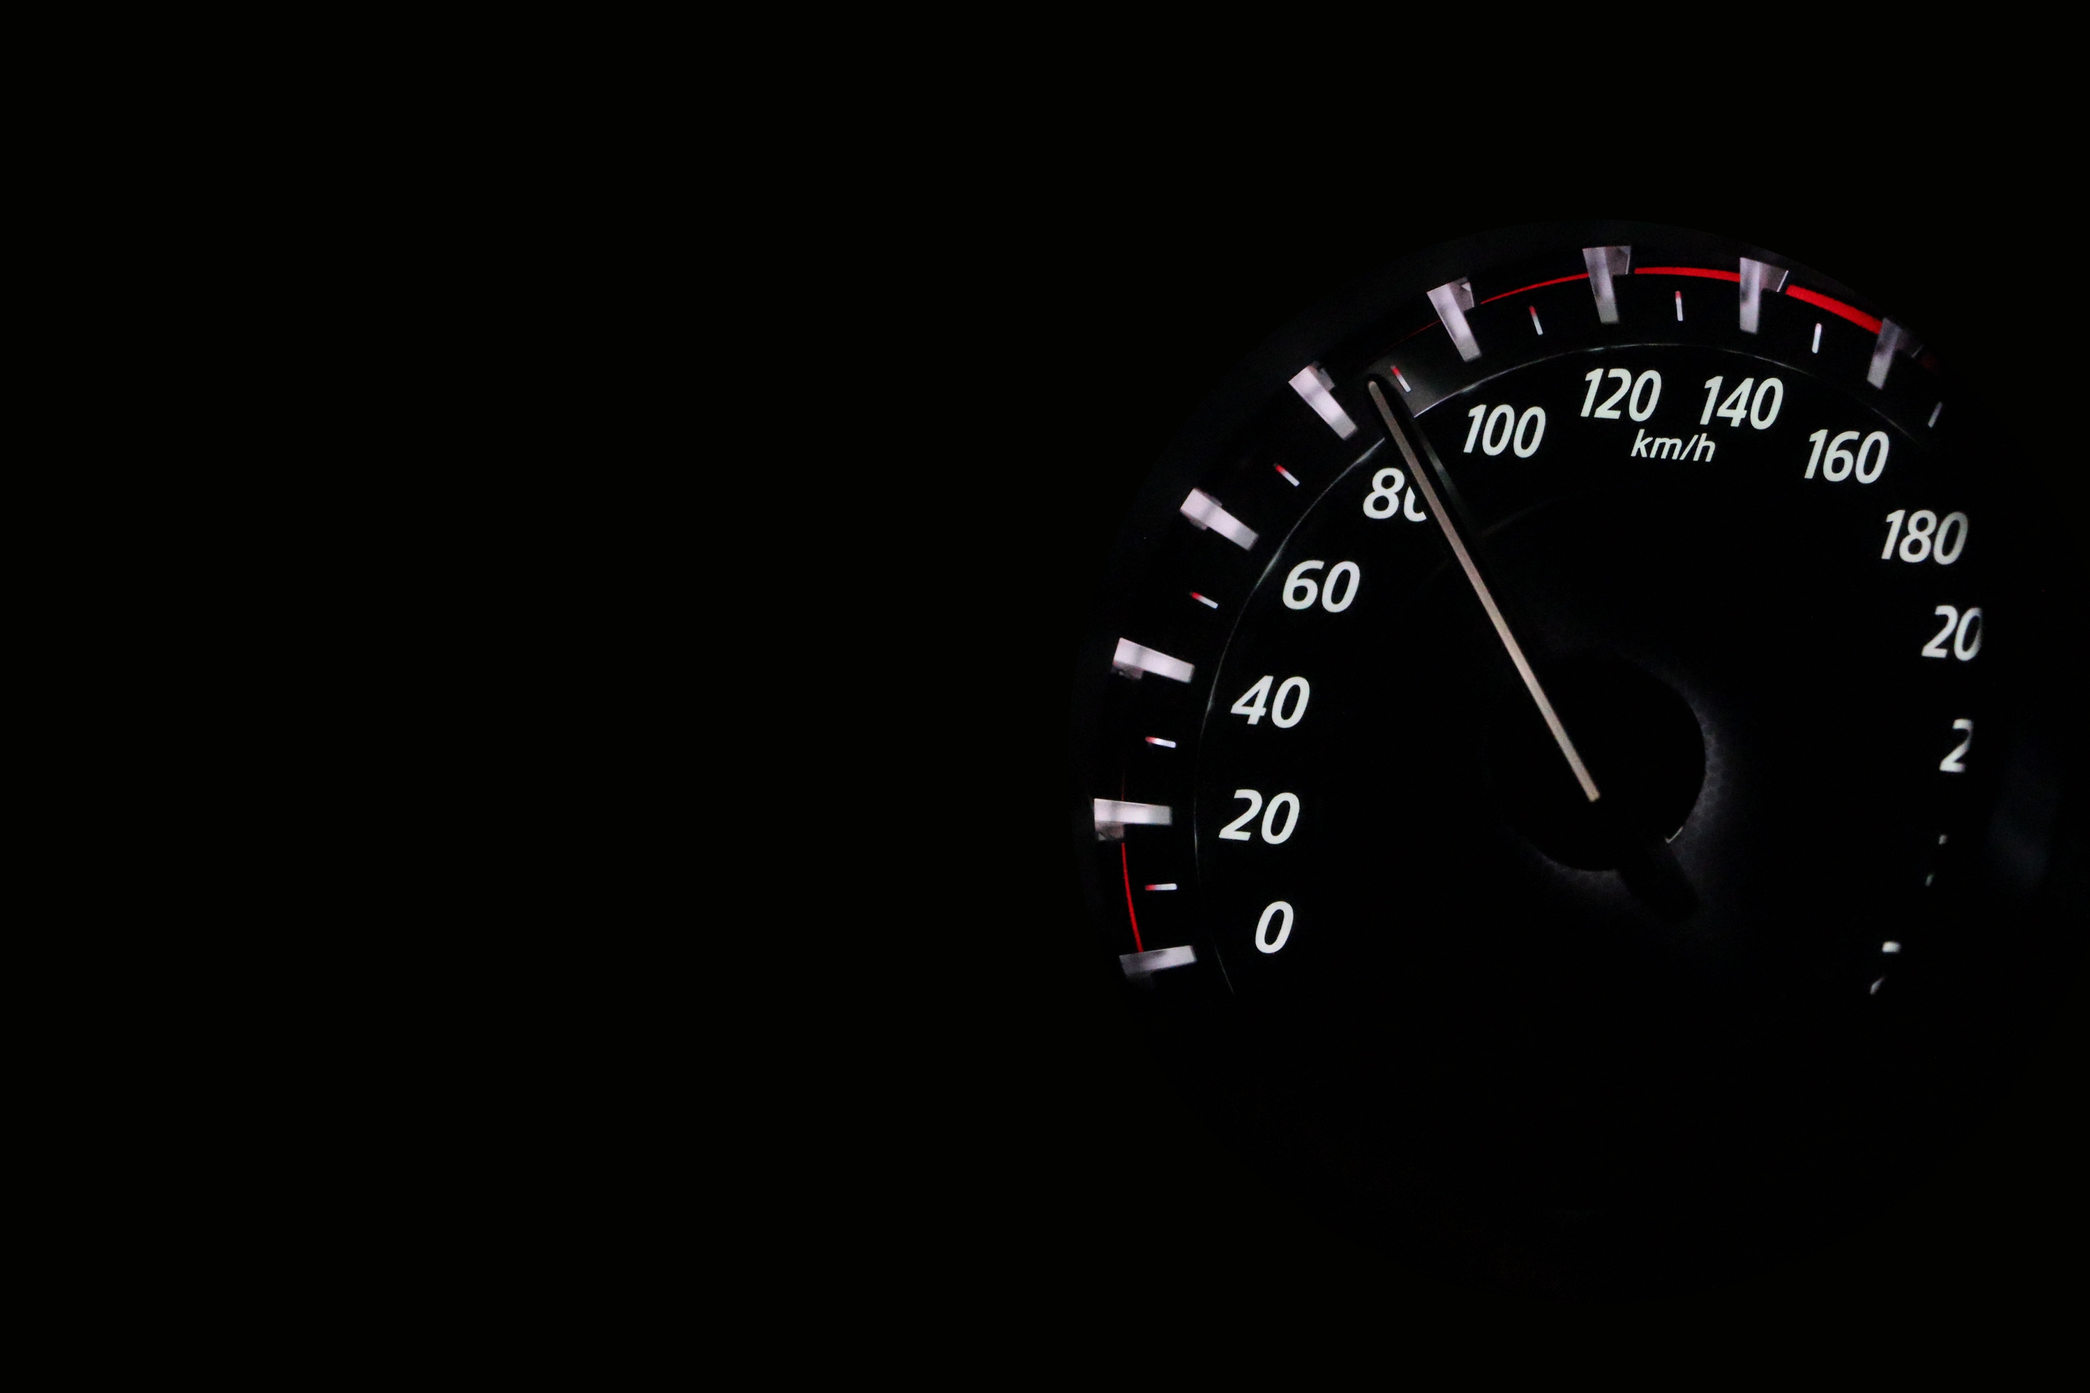
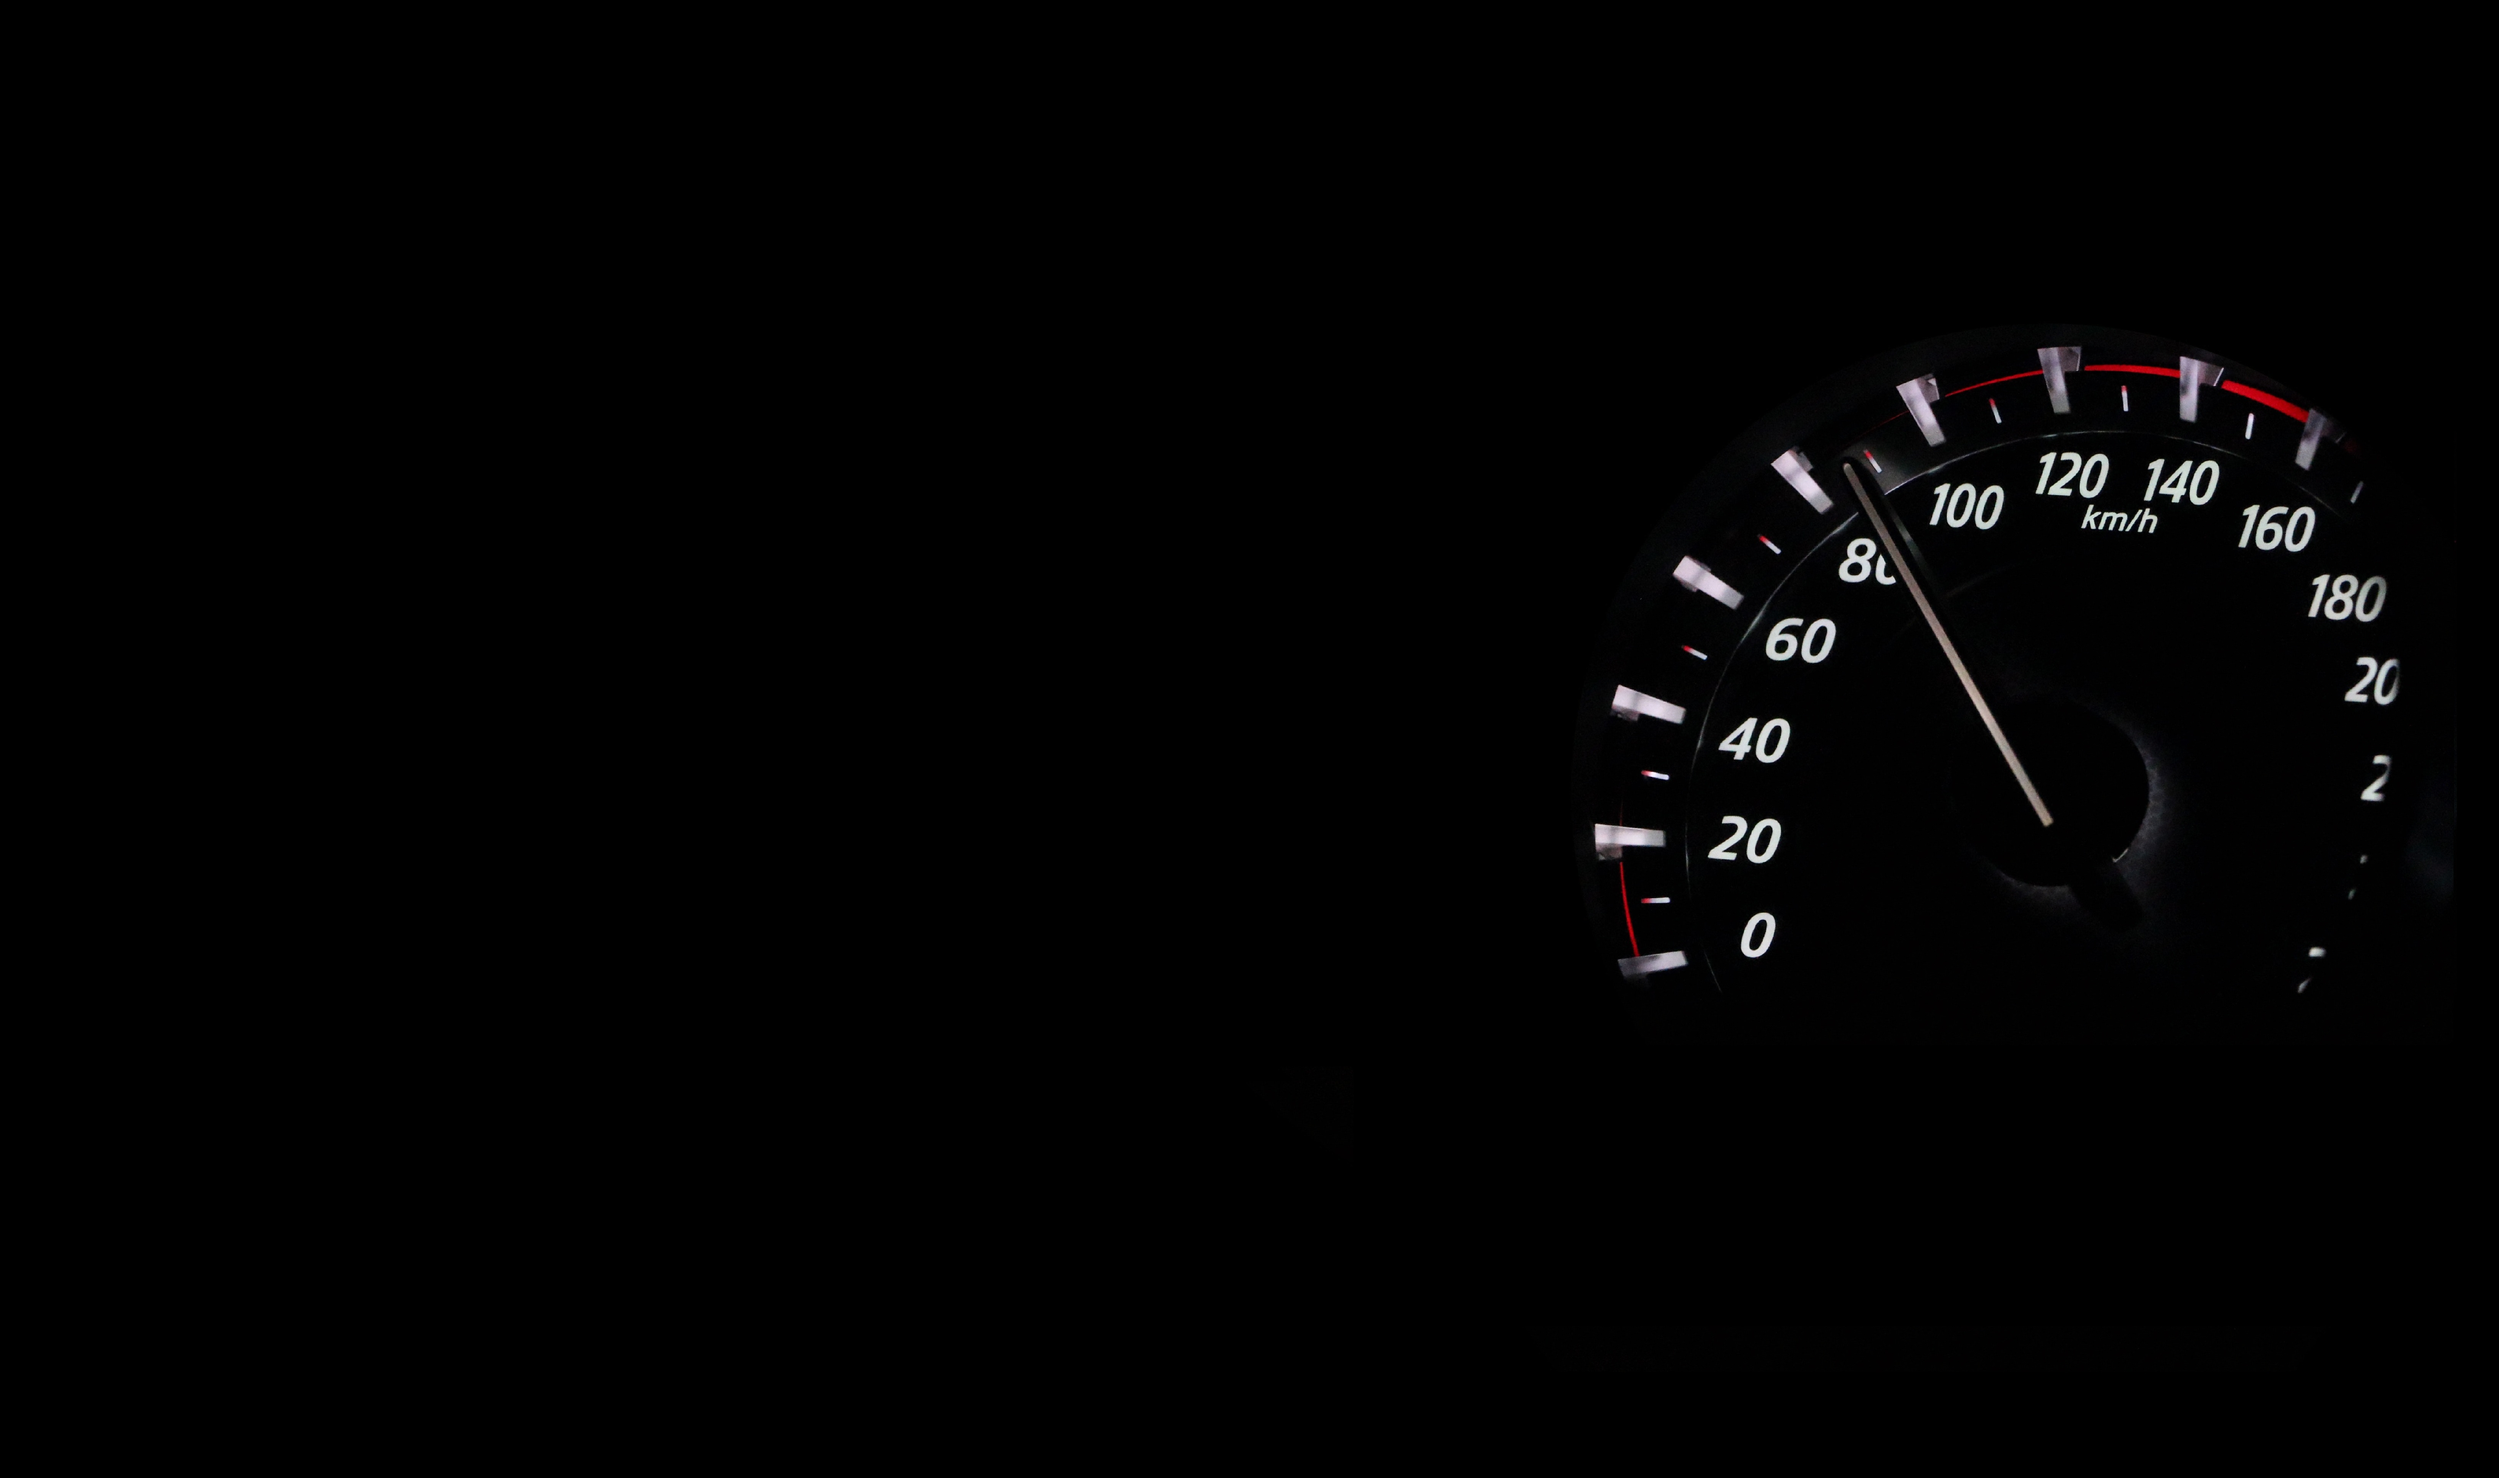
Nav home Login

diff --git a/ui/src/components/layouts/NavigationBar.js b/ui/src/components/layouts/NavigationBar.js
@@ -7,7 +7,7 @@ const NavigationBar = () => {
   const [navbar, setNavbar] = useState(false)
 
   const changeBackground = () => {
-    console.log(window.scrollY)
+    console.log(window.scrollY )
     if (window.scrollY >= 66) {
       setNavbar(true)
     } else {
@@ -23,13 +23,13 @@ const NavigationBar = () => {
 
 
   return (
-    <Navbar className={navbar ? 'nav-scroll': 'navb'} variant="light"  collapseOnSelect  sticky="top">
+    <Navbar className={(navbar) ? 'nav-scroll': 'navb'} variant="light"  collapseOnSelect  sticky="top">
     <Container>
-    <Navbar.Brand  > <FaCar color='#232d2f' /></Navbar.Brand>
+    <Navbar.Brand  > <FaCar color={navbar ? 'black': 'white'} /></Navbar.Brand>
     <Nav className="me-auto">
-      <Nav.Link as={Link} to="/">Home</Nav.Link>
-      <Nav.Link as={Link} to="/log-in">Log in</Nav.Link>
-      <Nav.Link as={Link} to="/register">Register</Nav.Link>
+      <Nav.Link as={Link} style={{color: navbar ? 'black': '#f4f4f4'}} to="/">Home</Nav.Link>
+      <Nav.Link as={Link} style={{color: navbar ? 'black': '#f4f4f4'}} to="/log-in">Log in</Nav.Link>
+      <Nav.Link as={Link} style={{color: navbar ? 'black': '#f4f4f4'}} to="/register">Register</Nav.Link>
     </Nav>
     </Container>
   </Navbar>

diff --git a/ui/src/components/layouts/NavigationBar.css b/ui/src/components/layouts/NavigationBar.css
@@ -1,19 +1,17 @@
 .navb {
-    background-color: #e1e9eb !important;
+    background-color: black !important;
     font-family: 'Poppins', 'sans-serif';
     font-size: 16px;
 }
 
 .navb, a {
-    color:#232d2f !important
+    color:white 
 }
 
 .nav-scroll {
-    background-color: #f4f4f4 !important;
+    background-color: white !important;
     font-family: 'Poppins', 'sans-serif';
     font-size: 16px;   
 }
 
-/* .nav-scroll, a{
-    color: green !important;
-} */
+

diff --git a/ui/src/components/pages/Login.js b/ui/src/components/pages/Login.js
@@ -21,9 +21,6 @@ const Login = () => {
                 <Form.Label>Password</Form.Label>
                 <Form.Control type="password" placeholder="Password" />
               </Form.Group>
-              <Form.Group className="mb-3" controlId="formBasicCheckbox">
-                <Form.Check type="checkbox" label="Check me out" />
-              </Form.Group>
               <Button variant="primary" type="submit">
                 Submit
               </Button>

diff --git a/ui/src/components/pages/Home.css b/ui/src/components/pages/Home.css
@@ -3,7 +3,7 @@
 }
 
 .cover {
-    background: url("../../images/pexels-taryn-elliott-7046771.jpg") no-repeat center center fixed;
+    background: url("../../images/shtoperica.jpg") no-repeat ;
     -webkit-background-size: cover;
     -moz-background-size: cover;
     background-size: cover;
@@ -23,6 +23,7 @@
 
 .align {
     padding-top: 22vh;
+    color:  white;
 }
 
 .second {

diff --git a/ui/src/components/pages/Login.css b/ui/src/components/pages/Login.css
@@ -1,12 +1,15 @@
 .login-wrapper {
     font-family: "Poppins", "sans-serif";
+    margin-top: 10vh;
 
 }
 
 .left-wrapper{
-    margin-top: 10vh;
 }
 
+
+
 .right-wrapper{
-    background-color: #e1e9eb;
+    background-color: #f4f4f4;
+    border-radius: 15px;
 }

diff --git a/ui/src/components/pages/Home.js b/ui/src/components/pages/Home.js
@@ -1,5 +1,5 @@
 import React from 'react'
-import { Container, Row, Col } from 'react-bootstrap'
+import { Container, Row, Col, Button } from 'react-bootstrap'
 import shtoperica from '../../images/jeep.jpg'
 import "./Home.css";
 
